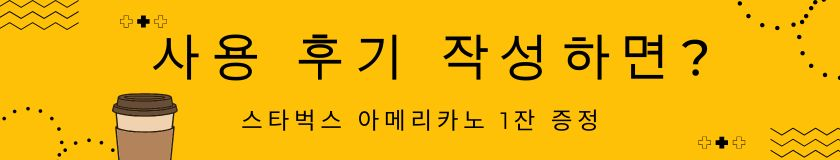
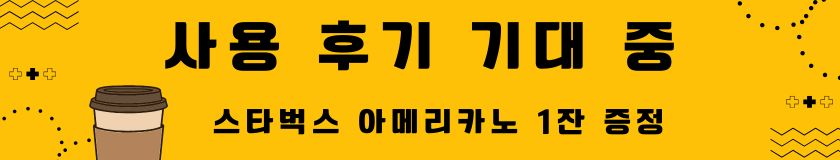
feat: user front UI개선

diff --git a/sigbang_user_front/src/components/Topbar.tsx b/sigbang_user_front/src/components/Topbar.tsx
@@ -44,24 +44,24 @@ export default function Topbar() {
 
   return (
     <header className="sticky top-0 z-10 bg-white/80 backdrop-blur">
-      <div className="mx-auto max-w-[1040px] px-4 py-4 flex items-center gap-4">
+      <div className="mx-auto max-w-[1040px] px-4 py-4 flex flex-wrap items-center gap-4">
         <div className="flex items-center gap-2 shrink-0">
           <Link href="/" className="flex items-center gap-2" aria-label="식방 홈">
-            <Image src="/logo.png" alt="식방" width={28} height={28} priority />
+            <Image src="/logo.png" alt="식방" width={32} height={32} priority />
             <span className="sr-only">식방</span>
           </Link>
-          <div className="text-[14px]">식방 Beta</div>
+          <div className="text-[16px]">식방 Beta</div>
         </div>
 
         {/* Center banner */}
-        <div className="flex flex-1 justify-center">
-          <Link href="/feedback" className="w-full max-w-[240px] sm:max-w-[420px] group" aria-label="피드백 보내기 배너">
+        <div className="w-full order-3 mt-2 flex justify-center md:order-none md:mt-0 md:flex-1">
+          <Link href="/feedback" className="w-full max-w-[280px] sm:max-w-[420px] group" aria-label="피드백 보내기 배너">
             <div className="relative rounded-lg overflow-hidden bg-[#f5f5f5]" style={{ aspectRatio: '21 / 4' }}>              
               <Image
                 src="/banners/top-feedback.jpg"
                 alt="피드백 배너"
                 fill
-                sizes="(max-width: 640px) 60vw, (max-width: 1040px) 42vw, 420px"
+                sizes="(max-width: 640px) 60vw, (max-width: 1040px) 42vw, 520px"
                 className="object-cover transition-transform duration-300 group-hover:scale-[1.02]"
                 priority
               />
@@ -69,25 +69,25 @@ export default function Topbar() {
           </Link>
         </div>
 
-        <div className="relative shrink-0" ref={menuRef}>
+        <div className="relative shrink-0 ml-auto order-2 md:order-none" ref={menuRef}>
           {isAuthed ? (
             <button
               aria-haspopup="menu"
               aria-expanded={isMenuOpen}
               onClick={() => setIsMenuOpen((v) => !v)}
-              className="w-8 h-8 rounded-full overflow-hidden border border-[#ddd] focus:outline-none focus:ring-2 focus:ring-sky-400"
+              className="w-10 h-10 rounded-full overflow-hidden border border-[#ddd] focus:outline-none focus:ring-2 focus:ring-sky-400"
               title={userEmail || '프로필'}
             >
               {userImageUrl ? (
                 <span className="relative block w-full h-full">
-                  <Image src={userImageUrl} alt="프로필" fill sizes="32px" style={{ objectFit: 'cover' }} />
+                  <Image src={userImageUrl} alt="프로필" fill sizes="36px" style={{ objectFit: 'cover' }} />
                 </span>
               ) : (
                 <div className="w-full h-full bg-[#ddd]" />
               )}
             </button>
           ) : (
-            <Link href="/login" className="text-[14px] text-[#111] hover:underline">
+            <Link href="/login" className="text-[16px] text-[#111] hover:underline">
               로그인
             </Link>
           )}

diff --git a/sigbang_user_front/src/app/feed/explore/ExploreClient.tsx b/sigbang_user_front/src/app/feed/explore/ExploreClient.tsx
@@ -48,7 +48,7 @@ export default function ExploreClient() {
           {status === 'pending' && (
             <ul className="flex flex-col">
               {Array.from({ length: 6 }).map((_, idx) => (
-                <li key={idx} className="max-w-[520px] w-full mx-auto py-6 border-b border-[#e5e7eb] last:border-b-0">
+                <li key={idx} className="max-w-[520px] w-full min-w-0 mx-auto py-6 border-b border-[#e5e7eb] last:border-b-0">
                   <RecipeCardSkeleton />
                 </li>
               ))}
@@ -62,7 +62,7 @@ export default function ExploreClient() {
                   const imageUrl = getImageUrl(r);
                   const slugPath = (() => { const s = (r as any).slug as string | undefined; const g = (r as any).region as string | undefined; return (r as any).slugPath || (s && s.includes('/') ? s : (g && s ? `${g}/${s}` : r.id)); })();
                   return (
-                    <li key={r.id} className="max-w-[520px] w-full mx-auto py-6 border-b border-[#e5e7eb] last:border-b-0">
+                    <li key={r.id} className="max-w-[520px] w-full min-w-0 mx-auto py-6 border-b border-[#e5e7eb] last:border-b-0">
                       <RecipeCard
                         recipeId={r.id}
                         href={`/recipes/${slugPath}`}
@@ -106,7 +106,7 @@ export default function ExploreClient() {
               {isFetchingNextPage && (
                 <ul className="flex flex-col">
                   {Array.from({ length: 3 }).map((_, idx) => (
-                    <li key={idx} className="max-w-[520px] w-full mx-auto py-6 border-b border-[#e5e7eb] last:border-b-0">
+                    <li key={idx} className="max-w-[520px] w-full min-w-0 mx-auto py-6 border-b border-[#e5e7eb] last:border-b-0">
                       <RecipeCardSkeleton />
                     </li>
                   ))}

diff --git a/sigbang_user_front/src/components/RecipeCard.tsx b/sigbang_user_front/src/components/RecipeCard.tsx
@@ -314,7 +314,7 @@ const RecipeCard = forwardRef<HTMLDivElement, Props>(function RecipeCard(
     }
   };
   const content = (
-    <div ref={ref} tabIndex={tabIndex} style={{ width: '100%' }} className={(active ? 'ring-6 ring-amber-200 ' : '') + 'rounded-[20px] border border-[#ddd] focus:outline-none focus:ring-2 focus:ring-amber-500 bg-white hover:ring-8 hover:ring-amber-200 hover:shadow-md transition-shadow'}>
+    <div ref={ref} tabIndex={tabIndex} style={{ width: '100%' }} className={(active ? 'ring-6 ring-amber-200 ' : '') + 'w-full min-w-0 rounded-[20px] border border-[#ddd] focus:outline-none focus:ring-2 focus:ring-amber-500 bg-white hover:ring-8 hover:ring-amber-200 hover:shadow-md transition-shadow'}>
       <div
         style={{ width: '100%', aspectRatio: '16 / 9', borderRadius: 12, overflow: 'hidden', background: '#eee', position: 'relative' }}
         onMouseEnter={() => setIsHovered(true)}
@@ -409,7 +409,7 @@ const RecipeCard = forwardRef<HTMLDivElement, Props>(function RecipeCard(
     </div>
   );
   return href ? (
-    <Link href={href} className="block" aria-label={`${title} 상세 보기`}>
+    <Link href={href} className="block min-w-0" aria-label={`${title} 상세 보기`}>
       {content}
     </Link>
   ) : (

diff --git a/sigbang_user_front/src/components/feedback/FeedbackForm.tsx b/sigbang_user_front/src/components/feedback/FeedbackForm.tsx
@@ -278,7 +278,7 @@ export default function FeedbackForm() {
   return (
     <form onSubmit={onSubmit} className="mt-6 space-y-5">
       <div>
-        <label className="block text-sm font-medium text-gray-700">제목</label>
+        <label className="block text-sm font-medium text-gray-700">* 제목</label>
         <input
           className="mt-1 block w-full rounded border border-gray-300 px-3 py-2"
           type="text"
@@ -304,7 +304,7 @@ export default function FeedbackForm() {
           </select>
         </div>
         <div>
-          <label className="block text-sm font-medium text-gray-700">이메일 (선택)</label>
+          <label className="block text-sm font-medium text-gray-700">이메일</label>
           <input
             className="mt-1 block w-full rounded border border-gray-300 px-3 py-2"
             type="email"
@@ -319,7 +319,7 @@ export default function FeedbackForm() {
       </div>
 
       <div>
-        <label className="block text-sm font-medium text-gray-700">내용</label>
+        <label className="block text-sm font-medium text-gray-700">* 내용</label>
         <textarea
           className="mt-1 block w-full rounded border border-gray-300 px-3 py-2 h-40"
           value={message}

diff --git a/sigbang_user_front/src/components/Sidebar.tsx b/sigbang_user_front/src/components/Sidebar.tsx
@@ -16,7 +16,7 @@ export default function Sidebar() {
     return pathname === href || pathname.startsWith(href + '/');
   };
   return (
-    <aside className="hidden sm:flex sm:flex-col sm:w-[200px] sticky top-[84px] self-start h-[calc(100vh-160px)] px-4 pt-6 gap-6" aria-label="사이드바 내비게이션">      
+    <aside className="hidden sm:flex sm:flex-col sm:w-[200px] sticky top-[84px] self-start h-[calc(100vh-160px)] px-4 pt-12 gap-6" aria-label="사이드바 내비게이션">      
       <nav className="flex flex-col gap-3 text-[18px]">
         <Link className={`flex items-center gap-2 rounded text-[#6b7280] hover:text-black ${isActive('/') ? 'text-black' : ''}`} href="/" aria-current={isActive('/') ? 'page' : undefined}><HomeIcon size={24} filled={isActive('/')} />{t('nav.home')}</Link>
         <Link className={`flex items-center gap-2 rounded text-[#6b7280] hover:text-black ${isActive('/search') ? 'text-black' : ''}`} href="/search" aria-current={isActive('/search') ? 'page' : undefined}><SearchIcon size={24} filled={isActive('/search')} />{t('nav.search')}</Link>

diff --git a/sigbang_user_front/src/app/recipes/_client/RecipeDetailClient.tsx b/sigbang_user_front/src/app/recipes/_client/RecipeDetailClient.tsx
@@ -34,7 +34,7 @@ export default function RecipeDetailClient({ id, initial }: { id: string; initia
       <Topbar />
       <div className="mx-auto max-w-[1200px] flex">
         <Sidebar />
-        <main id="main" className="flex-1 px-6 py-6" role="main">
+        <main id="main" className="flex-1 px-6 pt-6 pb-32" role="main">
           {status === 'pending' && <div>로딩...</div>}
           {status === 'error' && <div>오류가 발생했습니다</div>}
           {status === 'success' && recipe && (
@@ -101,7 +101,7 @@ export default function RecipeDetailClient({ id, initial }: { id: string; initia
                       </div>
                     )}
                     </div>
-                    <div className="flex items-center gap-2">
+                    <div className="flex items-center gap-2 ml-auto">
                       <button
                         onClick={() => {
                           if (session.status !== 'authenticated') {

diff --git a/sigbang_user_front/src/app/feedback/page.tsx b/sigbang_user_front/src/app/feedback/page.tsx
@@ -15,7 +15,8 @@ export default function FeedbackPage() {
         <main id="main" className="flex-1 px-6 py-6" role="main" tabIndex={-1}>
           <div className="mx-auto max-w-[800px]">
             <h1 className="text-2xl font-semibold">의견 보내기</h1>
-            <p className="mt-2 text-gray-600 text-sm">서비스 개선을 위해 소중한 의견을 남겨 주시면 선물을 드립니다.</p>
+            <p className="mt-2 text-gray-600 text-sm">서비스 개선을 위해 소중한 의견을 남겨 주시면 감사의 선물을 드립니다.</p>
+            <p className="mt-2 text-gray-600 text-sm">스타벅스 아이스 아메리카노 1잔 추첨을 통해 50분께 증정 (이메일 필수).</p>
             <FeedbackForm />
           </div>
         </main>

diff --git a/sigbang_user_front/src/components/Footer.tsx b/sigbang_user_front/src/components/Footer.tsx
@@ -18,14 +18,7 @@ export default function Footer() {
           </div>
 
           <div className="space-y-2">
-            <div className="flex gap-4">
-              <a
-                className="hover:underline"
-                href="/feedback"
-                aria-label="의견 보내기"
-              >
-                의견 보내기
-              </a>
+            <div className="flex gap-4">              
               <a
                 className="hover:underline"
                 href="https://www.instagram.com/sig.bang"

diff --git a/sigbang_user_front/src/app/_client/RecommendedSection.tsx b/sigbang_user_front/src/app/_client/RecommendedSection.tsx
@@ -39,7 +39,7 @@ export default function RecommendedSection() {
   }));
 
   return (
-    <Section title="추천" items={items} loading={recommended.status === 'pending'} />
+    <Section title="추천 레시피" items={items} loading={recommended.status === 'pending'} />
   );
 }
 
